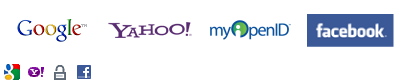
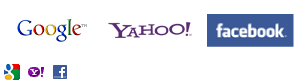
Removed MyOpenID as a provider

Changed region(s): [[0.03, 0.1667, 0.99, 0.5714], [0.0, 0.7619, 0.24, 0.9524]]

diff --git a/scripts/openid-en.js b/scripts/openid-en.js
@@ -15,11 +15,6 @@ var providers_large = {
 		url : 'http://me.yahoo.com/'
 	},
 
-	myopenid : {
-		name : 'MyOpenID',
-		label : 'Enter your MyOpenID username.',
-		url : 'http://{username}.myopenid.com/'
-	},
         facebook : {
 		name : 'facebook',
 		url : 'javascript:facebook_click();'
